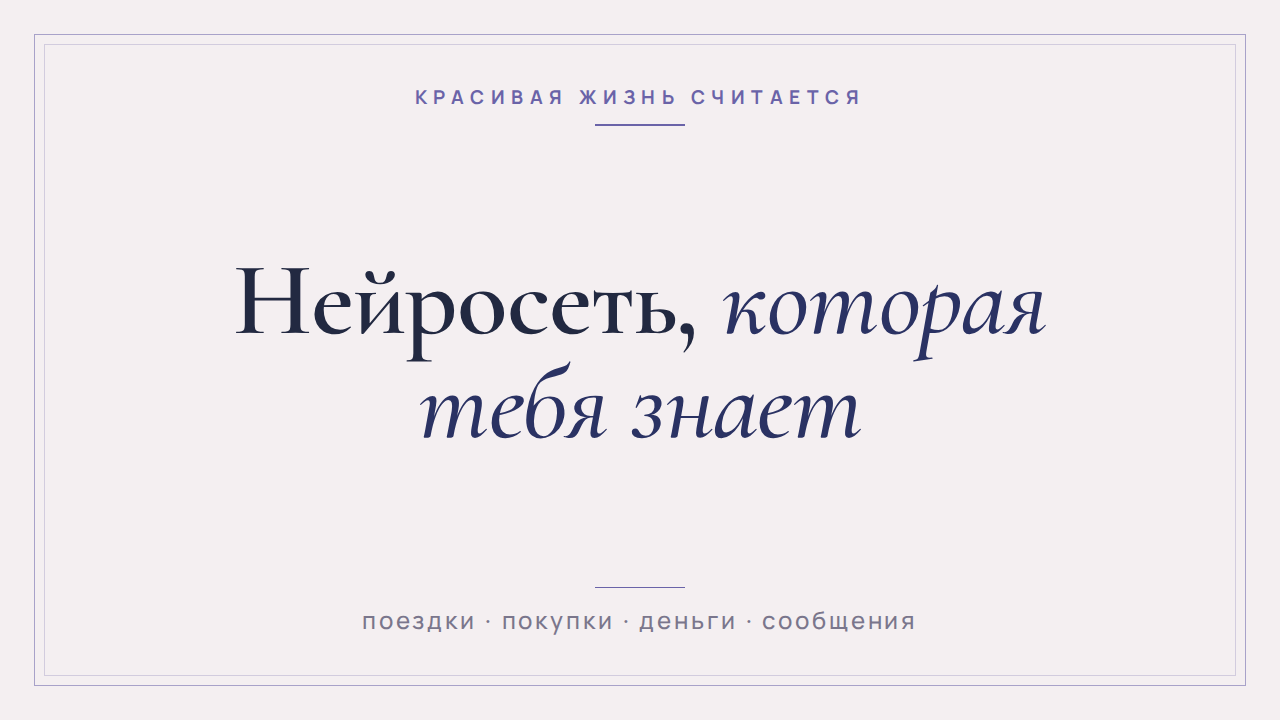
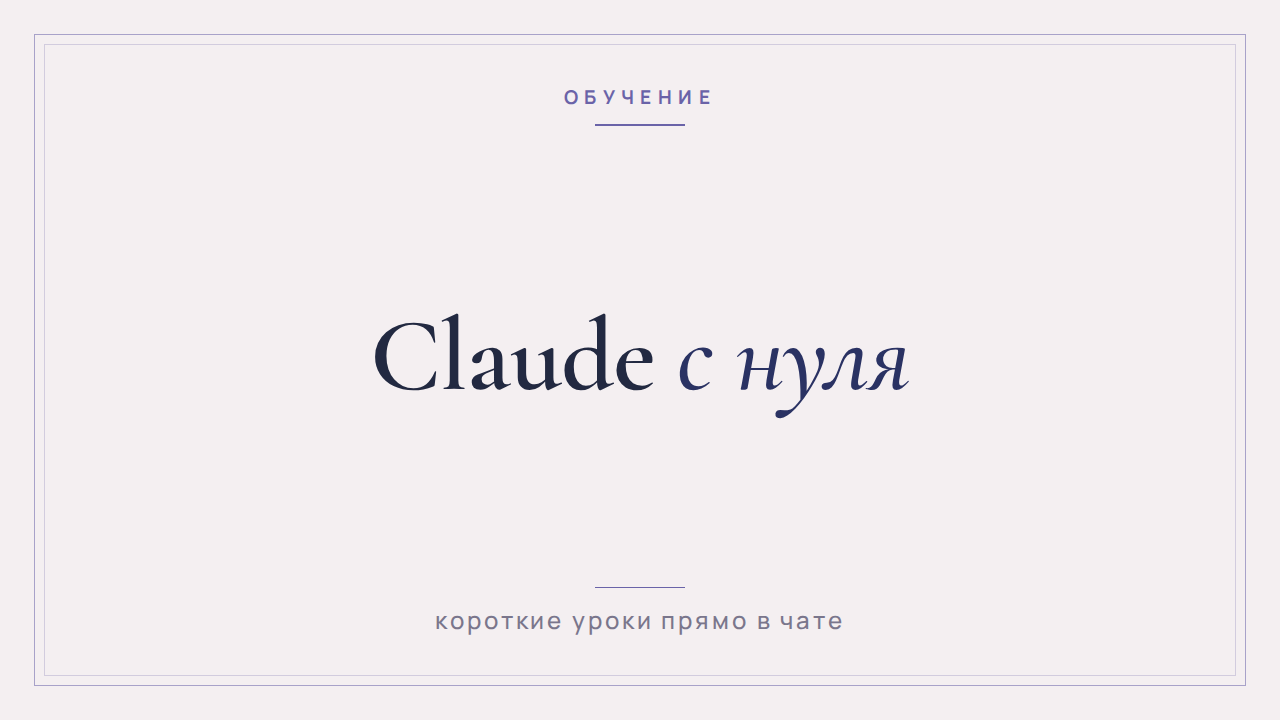
Бот: курс «Claude с нуля» — уроки прямо в чате
- главный экран ведёт в обучение;
- модули 1–2 (9 уроков) бесплатно, модуль 3 «Файлы и фото» —
  платный образец, 4–7 пока «в работе»;
- экран с requires: <продукт> открывается только после покупки,
  иначе — предупреждение и карточка курса;
- кнопка copy: в уроках копирует готовый запрос одним касанием;
- продукт course_full (цена — черновик), баннеры «Обучение» и
  «Программа курса»; сценарии переехали в «Готовый запрос под задачу».

Факты об интерфейсе Claude сверены со справкой support.claude.com.

Claude-Session: https://claude.ai/code/session_011V5xxkeug1wnCL36zNTPG9

Changed region(s): [[0.1875, 0.3667, 0.8125, 0.6111], [0.2812, 0.8556, 0.7188, 0.8861], [0.3125, 0.1222, 0.6875, 0.1528]]

diff --git a/sales-bot/bot/content.py b/sales-bot/bot/content.py
@@ -6,13 +6,14 @@ from pathlib import Path
 import yaml
 
 DELIVERY_TYPES = {"file", "link", "text", "channel"}
-BUTTON_KINDS = ("screen", "product", "flow", "url", "my")
+BUTTON_KINDS = ("screen", "product", "flow", "url", "copy", "my")
+COPY_LIMIT = 256  # столько символов Telegram разрешает в кнопке «Копировать»
 REQUIRED_TEXTS = {
     "my_empty", "my_purchases", "paysupport", "pay_prompt", "pay_waiting",
     "pay_canceled", "thanks", "already_bought", "delivery_error",
     "pay_choose", "tribute_prompt", "transfer_prompt", "transfer_received",
     "transfer_rejected", "transfer_no_order", "seller_receipt",
-    "template_hint", "template_locked",
+    "template_hint", "template_locked", "lesson_locked",
 }
 RUB_METHODS = {"tribute", "transfer", "yookassa"}
 TRIBUTE_URL = re.compile(r"^https://(web\.tribute\.tg|t\.me)/\S+$")
@@ -64,6 +65,7 @@ class Screen:
     text: str
     photo: str | None
     rows: tuple[tuple[Button, ...], ...]
+    requires: str | None = None  # id продукта: без покупки экран не откроется
 
 
 @dataclass(frozen=True)
@@ -230,6 +232,9 @@ def _parse_button(raw, where: str) -> Button:
         )
     kind = kinds[0]
     target = str(raw[kind]).strip() if kind != "my" else ""
+    if kind == "copy" and not 1 <= len(target) <= COPY_LIMIT:
+        raise ContentError(f"{where}, кнопка «{raw['text']}»: текст для копирования — до {COPY_LIMIT} символов "
+                           f"(сейчас {len(target)}) — так ограничивает Telegram")
     if kind == "url" and not target.startswith(("https://", "http://", "tg://")):
         raise ContentError(f"{where}, кнопка «{raw['text']}»: url должен начинаться с https://")
     return Button(text=str(raw["text"]).strip(), kind=kind, target=target)
@@ -254,6 +259,7 @@ def _parse_screen(sid: str, raw: dict, base_dir: Path, where: str | None = None)
         text=text,
         photo=_image(raw.get("photo"), base_dir, where),
         rows=tuple(rows),
+        requires=str(raw["requires"]).strip() if raw.get("requires") else None,
     )
 
 
@@ -343,6 +349,9 @@ def _check_links(content: Content) -> None:
                     raise ContentError(f"{where}, кнопка «{b.text}»: нет товара «{b.target}»")
                 if b.kind == "flow" and b.target not in content.flows:
                     raise ContentError(f"{where}, кнопка «{b.text}»: нет сценария «{b.target}»")
+    for s in content.screens.values():
+        if s.requires and s.requires not in content.products:
+            raise ContentError(f"Экран {s.id}: requires — нет товара «{s.requires}»")
     clash = content.screens.keys() & content.products.keys()
     if clash:
         raise ContentError(f"Одинаковые id у экрана и товара: {', '.join(sorted(clash))}")

diff --git a/sales-bot/bot/handlers/user.py b/sales-bot/bot/handlers/user.py
@@ -39,8 +39,17 @@ def _name(user: User) -> str:
     return html.escape(user.first_name or "")
 
 
-async def _open_screen(target, screen_id: str, store: ContentStore) -> None:
+async def _open_screen(target, screen_id: str, store: ContentStore, db: Database, bot: Bot) -> None:
     screen = store.screen(screen_id) or store.screen(START_SCREEN)
+    if screen.requires and not await db.has_paid(target.from_user.id, screen.requires):
+        # Платный урок: вместо него — карточка продукта с покупкой
+        product = store.product(screen.requires)
+        if isinstance(target, CallbackQuery):
+            await target.message.answer(store.text("lesson_locked"))
+        else:
+            await target.answer(store.text("lesson_locked"))
+        await _open_product(target, product, START_SCREEN, bot, store, db)
+        return
     text = fill(screen.text, name=_name(target.from_user))
     await _show(target, text, kb.screen(screen), photo=screen.photo)
 
@@ -81,7 +90,7 @@ async def start(message: Message, command: CommandObject, bot: Bot,
     if found:
         await _send_template(message, *found, bot=bot, store=store, db=db)
         return
-    await _open_screen(message, arg if store.screen(arg) else START_SCREEN, store)
+    await _open_screen(message, arg if store.screen(arg) else START_SCREEN, store, db, bot)
 
 
 COPY_BUTTON_LIMIT = 256  # столько символов Telegram разрешает в кнопке «Копировать»
@@ -136,14 +145,15 @@ async def flow(callback: CallbackQuery, callback_data: kb.FlowCb, store: Content
 
 
 @router.message(Command("menu"))
-async def menu(message: Message, store: ContentStore):
-    await _open_screen(message, START_SCREEN, store)
+async def menu(message: Message, bot: Bot, store: ContentStore, db: Database):
+    await _open_screen(message, START_SCREEN, store, db, bot)
 
 
 @router.callback_query(kb.ScreenCb.filter())
-async def screen(callback: CallbackQuery, callback_data: kb.ScreenCb, store: ContentStore):
+async def screen(callback: CallbackQuery, callback_data: kb.ScreenCb, bot: Bot,
+                 store: ContentStore, db: Database):
     await callback.answer()
-    await _open_screen(callback, callback_data.id, store)
+    await _open_screen(callback, callback_data.id, store, db, bot)
 
 
 @router.callback_query(kb.ProductCb.filter())

diff --git a/sales-bot/guides/banners.py b/sales-bot/guides/banners.py
@@ -21,7 +21,8 @@ W, H = 1280, 720
 PALETTE = "chrome"
 
 BANNERS = {
-    "start": ("Красивая жизнь считается", "Нейросеть, *которая тебя знает*", "поездки · покупки · деньги · сообщения"),
+    "start": ("Обучение", "Claude *с нуля*", "короткие уроки прямо в чате"),
+    "course": ("Программа курса", "Семь модулей — *от первого чата до проектов*", "модули 1–2 бесплатно"),
     "more": ("Всё, что есть в боте", "Гайды, ассистент *и шаблоны*", "5 гайдов бесплатно"),
     "free": ("Бесплатно", "Пять гайдов — *пять задач*", "каждый — результат за несколько минут"),
     "assistant": ("Личный ИИ-ассистент", "Один раз рассказать — *и не объяснять*", "10 ассистентов с моими правилами"),

diff --git a/sales-bot/bot/keyboards.py b/sales-bot/bot/keyboards.py
@@ -1,5 +1,5 @@
 from aiogram.filters.callback_data import CallbackData
-from aiogram.types import InlineKeyboardButton, InlineKeyboardMarkup
+from aiogram.types import CopyTextButton, InlineKeyboardButton, InlineKeyboardMarkup
 from aiogram.utils.keyboard import InlineKeyboardBuilder
 
 from .content import START_SCREEN, Flow, Product, Screen
@@ -60,6 +60,8 @@ METHOD_LABELS = {
 def _button(text: str, kind: str, target: str, screen_id: str) -> InlineKeyboardButton:
     if kind == "url":
         return InlineKeyboardButton(text=text, url=target)
+    if kind == "copy":
+        return InlineKeyboardButton(text=text, copy_text=CopyTextButton(text=target))
     if kind == "screen":
         data = ScreenCb(id=target)
     elif kind == "product":

diff --git a/sales-bot/README.md b/sales-bot/README.md
@@ -90,6 +90,15 @@ screens:
 
 Бесплатный продукт — это продукт с `free: true`: по кнопке он сразу приходит в чат, а бот считает, сколько людей его забрали.
 
+## Курс «Claude с нуля»
+
+Главный экран ведёт в курс. Урок — обычный экран в `content.yaml` (`l1_1`, `l1_2`…), программа — экран `course`.
+
+- Кнопка «Дальше» — `{text: "✅ Дальше", screen: l1_2}`.
+- Кнопка копирования — `{text: "📋 Скопировать запрос", copy: "текст до 256 символов"}`: Telegram копирует текст одним касанием.
+- Платный урок — строка `requires: course_full` у экрана. Без покупки бот покажет предупреждение и карточку курса, после покупки урок откроется.
+- Модули 1–2 бесплатные, модуль 3 — платный образец, 4–7 пока ведут на экран «в работе». **Не анонсируй продажу курса, пока модули 4–7 не готовы.**
+
 ## Сценарии: сначала польза, потом продукт
 
 Главный экран — не меню, а вопрос «что хочешь решить на этой неделе?». Каждая кнопка запускает сценарий из раздела `flows` в `content.yaml`:
